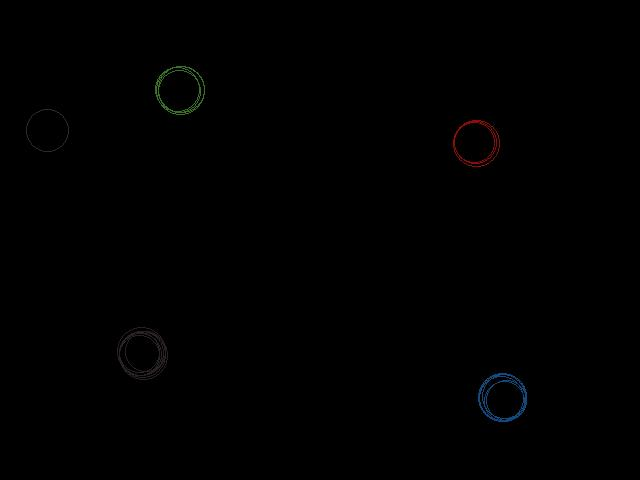
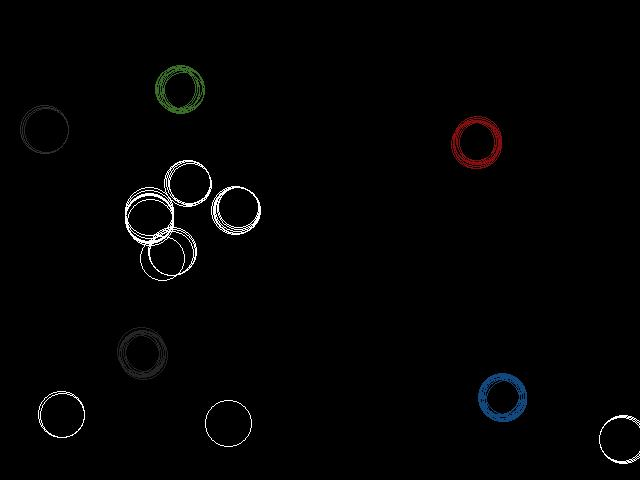
added extra test functions

diff --git a/cv.py b/cv.py
@@ -12,7 +12,6 @@ from skimage.transform import hough_ellipse, hough_circle
 from skimage.draw import ellipse_perimeter, circle_perimeter
 from skimage.filters import roberts, sobel, scharr, prewitt
 
-
 def detect_colored_circles(rgb_img, radius_range, hsv_color_ranges, debug=False):
 	"""
 	TODO: Desicption
@@ -106,8 +105,6 @@ def detect_colored_circles_no_prints(rgb_img, radius_range, hsv_color_ranges, de
 
 	min_radius, max_radius = radius_range
 
-	start_all = time.time()
-
 	# convert image to gray
 	gray_img = rgb2gray(rgb_img)
 
@@ -126,16 +123,12 @@ def detect_colored_circles_no_prints(rgb_img, radius_range, hsv_color_ranges, de
 	for key, array in color_coords_dictionary.items():
 		if len(array) == 0: color_not_found = True
 
-	print('total duration: ',time.time()-start_all,'seconds')
-
 	if color_not_found:
 		print('less than 4 corners for calibration detected, quitting')
 		return None
 
 	color_coords = calc_coordinate_averages(color_coords_dictionary)
 	return color_coords
-
-
 
 def find_circles(edges_img, min_radius, max_radius):
 	
@@ -166,7 +159,6 @@ def circles_per_radiuss(hough_radii, hough_res, circles_per_area=16):
 	
 	return (centers, accums, radii)
 
-
 def find_circles_by_color(centers, accums, radii, rgb_img, hsv_color_ranges, debug):
 
 	debug_img = numpy.zeros((len(rgb_img), len(rgb_img[0]), 3), dtype=numpy.uint8)	# start with black image
@@ -189,7 +181,6 @@ def find_circles_by_color(centers, accums, radii, rgb_img, hsv_color_ranges, deb
 				print('@ coord (x,y)', center_x, ', ', center_y, '\n')
 
 	return (coords, debug_img)
-
 
 def calc_coordinate_averages(coord_arrays):
 	"""
@@ -235,8 +226,12 @@ def find_colors(pixel_color, hsv_color_ranges, debug=False):
 	for color, color_range in hsv_color_ranges.items():	# for every hsv color range in hsv_color_ranges
 		couldbe[color] = 0
 		for i in range(0,3): # for every channel
-			## if hsv channel between hsv color range_min and range_max
-			if color_range[0][i] <= hsv[i] <= color_range[1][i]: couldbe[color] +=1
+			if color_range[0][i] > color_range[1][i]:
+				# its red, so from 0 to max or min to 1
+				if (0. <= hsv[i] <= color_range[1][i]) or (color_range[0][i] <= hsv[i] <= 1.): couldbe[color] += 1
+			else:
+				## if hsv channel between hsv color range_min and range_max
+				if color_range[0][i] <= hsv[i] <= color_range[1][i]: couldbe[color] +=1
 
 	# save all colors where score in couldbe is 3, so all channels have matched
 	# should not happen, but this is good for debugging the hsv color ranges
@@ -413,21 +408,68 @@ def calibrate_colors(rgb_img, radius_range, searched_range):
 #########################################################################################################
 #########################################################################################################
 
+def warp(img, edges):
+
+    width = len(img[1])
+    height = len(img)
+
+    warped = numpy.empty((width, height, 3), dtype=numpy.uint8)
+
+    for x in range(width):
+        x_share = x / width
+        x_share_comp = 1 - x_share
+
+        y_start = edges['upper_left'][1] * x_share_comp + edges['upper_right'][1] * x_share
+        y_end = edges['lower_left'][1] * x_share_comp + edges['lower_right'][1] * x_share
+
+        for y in range(height):
+            y_share = y / height
+            y_share_comp = 1 - y_share
+
+            x_start = edges['upper_left'][0] * y_share_comp + edges['lower_left'][0] * y_share
+            x_end = edges['upper_right'][0] * y_share_comp + edges['lower_right'][0] * y_share
+
+            x_len = x_end - x_start
+            y_len = y_end - y_start
+
+            x_new = x_start + x_share * x_len
+            y_new = y_start + y_share * y_len
+                   
+            warped[int(x_new), int(y_new)] = (img[y,x][0], img[y,x][1], img[y,x][2])
+    
+    return warped
+
+#########################################################################################################
+#########################################################################################################
+
 
 if __name__ == '__main__':
 	print('\n')
 	print('NOTE: THIS IS JUST FOR TESTING PURPOSES')
 	print('Import the main function via \'from cv import detect_colored_circles\'')
-	path = './img/0_photo.jpg'
+	path = 'img/0_photo.jpg'
 
 	radius_range = (20,25) # radius of circles in pixels
 	hsv_color_ranges = {
-		'blue': ((0.52,0.85,120.),(0.56,0.95,130.)),		# upper left circle
-		'green': ((0.25,0.55,125.),(0.29,0.63,132.)),	# lower left circle
-		'red': ((0.96,0.72,140.),(1.,0.79,154.)),		# lower right circle
-		'black': ((0.05,0.19,20.),(0.15,0.30,60.))		# upper right circle
+		'lower_right': ((0.52,0.4,100.),(0.78,1.,255.)),		# upper left circle
+		'upper_left': ((0.24,0.4,100.),(0.47,1.,255.)),	# lower left circle
+		'upper_right': ((0.86,0.4,100.),(0.10,1.,255.)),		# lower right circle
+		'lower_left': ((0.0,0.,0.),(1.,1.,60.))		# upper right circle
 	}
 
 	rgb_img = imread(path)
+	overlay = scipy.misc.imread('0.jpg')
 	print('points detection from file',path,'with circle radii from',radius_range[0],'to',radius_range[1],'\n') 	
-	detect_colored_circles(rgb_img, radius_range, hsv_color_ranges, False)
+
+	c = 0
+	while c < 15:
+		c +=1
+		start = time.time()
+		circle_coords = detect_colored_circles_no_prints(rgb_img, radius_range, hsv_color_ranges, debug=False)
+		if circle_coords is not None:
+			warped = warp(overlay, circle_coords)
+			print('duration: ',time.time()-start,'seconds')
+			scipy.misc.imsave('test.png', warped)
+		else:
+			print('error')
+
